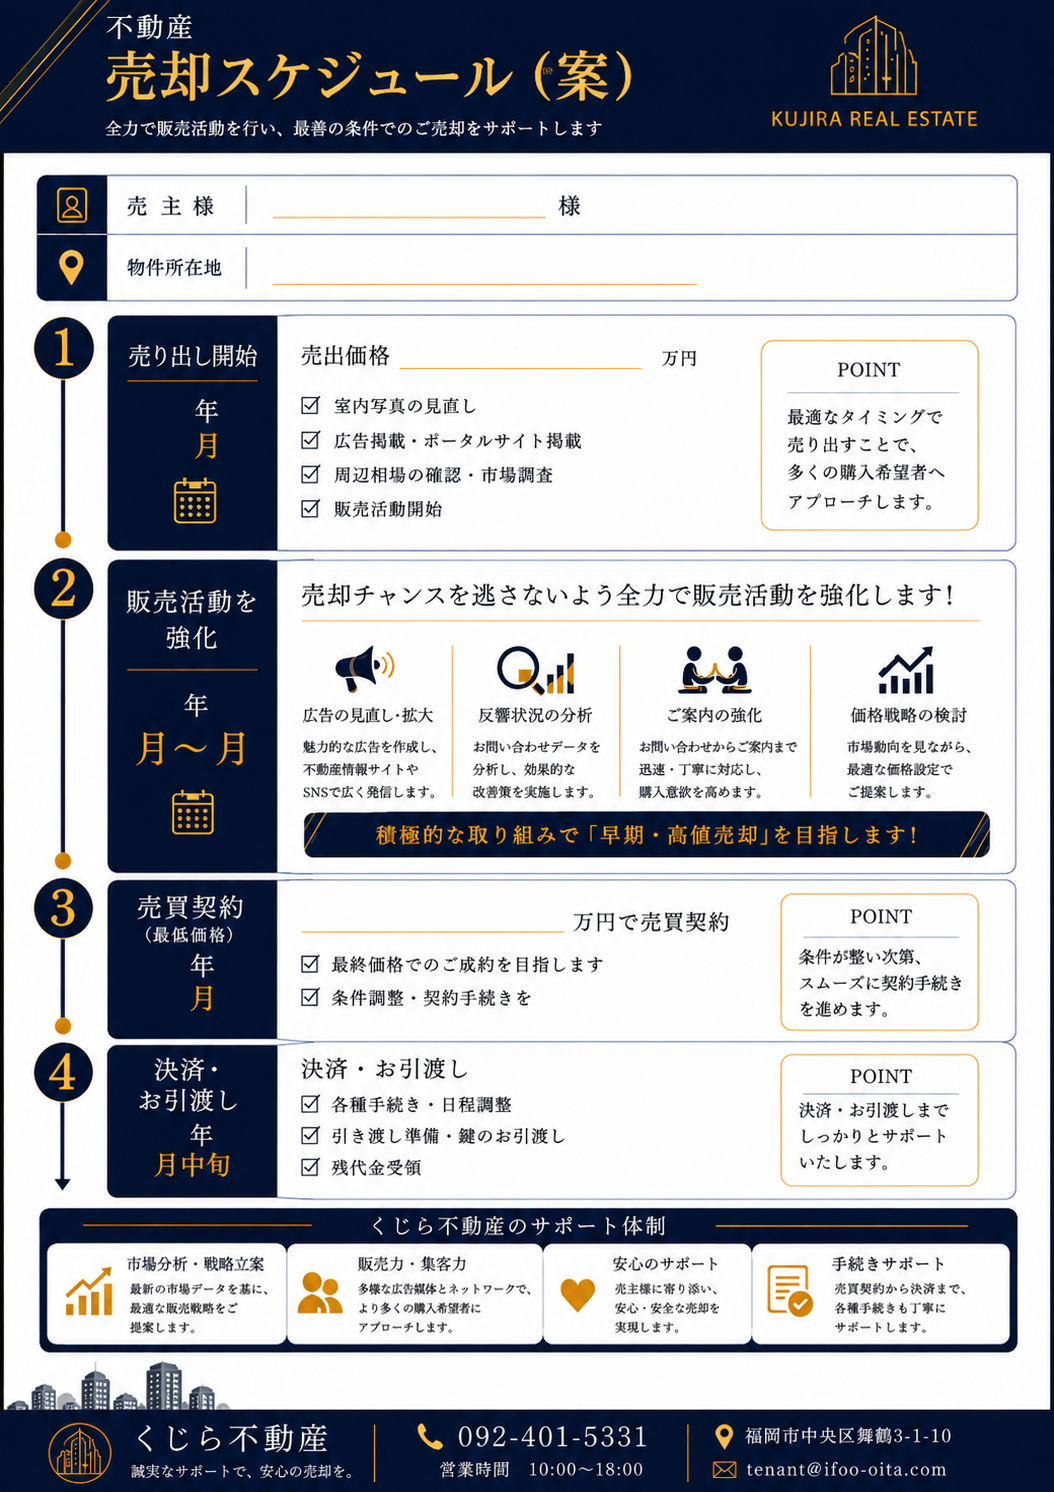
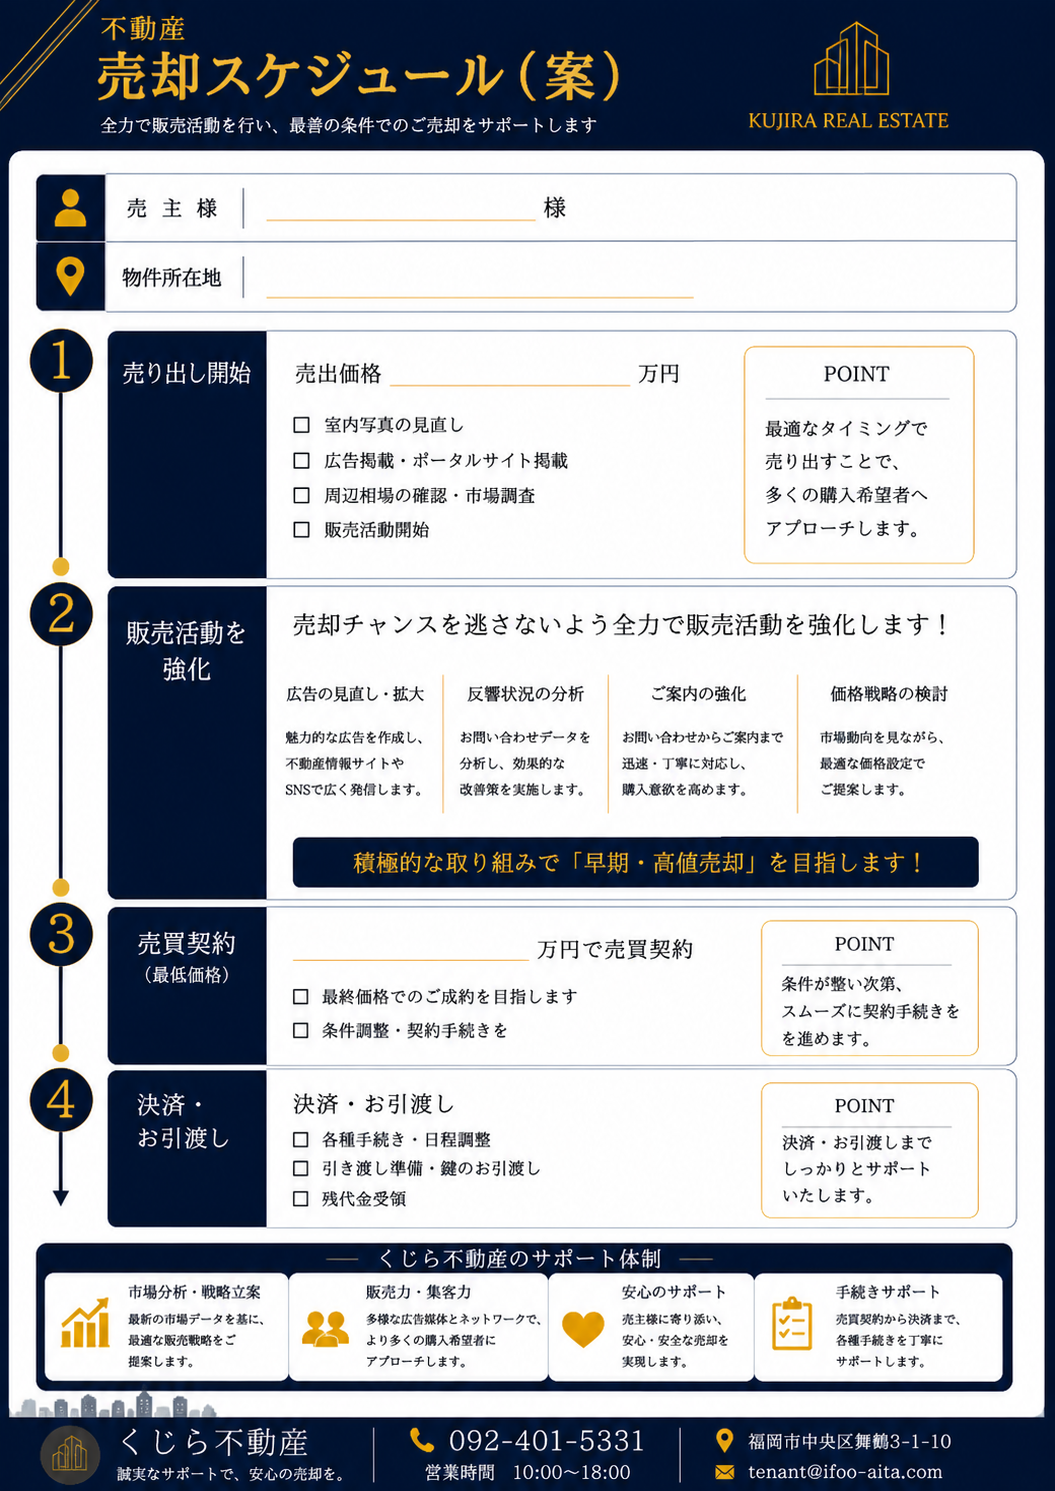
fix: STEP1年に'年'月に'月'追加・フォント10pt・新テンプレート画像を反映

Changed region(s): [[0.0, 0.0, 1.0, 1.0]]

diff --git a/frontend/frontend/src/components/SaleScheduleModal.tsx b/frontend/frontend/src/components/SaleScheduleModal.tsx
@@ -61,9 +61,10 @@ const BOXES = {
   // ④ 最低価格
   minPrice:     { left: 66, top: 178.0, w: 57,  h: 7.0 },
 
-  // ── 年月（調整保留中）──
-  step1Year:    { left: 19, top: 89.5, w: 36,  h: 5.5 },
-  step1Month:   { left: 19, top: 96.5, w: 36,  h: 10.0 },
+  // STEP1年（5mm上、5mm左）
+  step1Year:    { left: 14, top: 84.5, w: 36,  h: 5.5 },
+  // STEP1月（4mm上、5mm左）
+  step1Month:   { left: 14, top: 92.5, w: 36,  h: 10.0 },
   step2Year:    { left: 19, top: 139.0, w: 36, h: 5.5 },
   step2StartM:  { left: 19, top: 146.0, w: 17, h: 9.5 },
   step2EndM:    { left: 38, top: 146.0, w: 17, h: 9.5 },
@@ -311,8 +312,8 @@ function buildA4Html(d: SaleScheduleData, debug = false): string {
 
     <!-- 年月（調整保留中・非表示） -->
     <!-- STEP1 年・月：表示開始 -->
-    ${makeBox(B.step1Year,  d.startYear  ? String(d.startYear)  : '', 7,  700, '#ffffff', debug)}
-    ${makeBox(B.step1Month, d.startMonth ? String(d.startMonth) : '', 16, 900, '#C99A3D', debug)}
+    ${makeBox(B.step1Year,  d.startYear  ? `${d.startYear}年`  : '', 10, 700, '#ffffff', debug)}
+    ${makeBox(B.step1Month, d.startMonth ? `${d.startMonth}月` : '', 16, 900, '#C99A3D', debug)}
 
   </div>
 </div>
